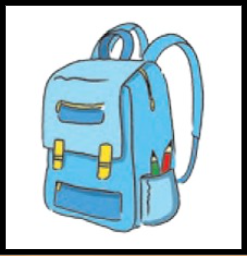
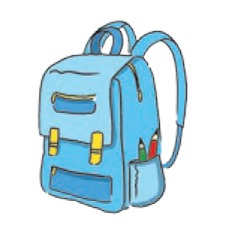
add image in the DragAndDrop

diff --git a/src/components/DragAndDrop/DragAndDropLevels.jsx b/src/components/DragAndDrop/DragAndDropLevels.jsx
@@ -4,20 +4,34 @@ import css from "../../main.module.css";
 import { DragAndDropGame } from "./DragAndDropGame";
 import backImg from "./img/tetrad.jpg";
 import image from "./img/bag.png";
+import teacherPng from "./img/teacher.png";
+import teacherGirl from "./img/teacherGirl.png";
+import learningBoy from "./img/learningBoy.png";
+import learningGirl from "./img/learningGirl.png";
+import dlugopis from "./img/dlugopis.png";
+import oluwek from "./img/oluwek.png";
+import zeszyt from "./img/zeszyt.png";
+import ksączka from "./img/ksączka.png";
+import komputer from "./img/komputer.png";
+import lekcia from "./img/lekcia.png";
+import chair from "./img/chair.png";
+import okno from "./img/okno.png";
+import drzwi from "./img/drzwi.png";
+import lawka from "./img/lawka.png";
 
 export const DragAndDropLevels = () => {
   const [selectedId, setSelectedId] = useState("");
-  const [currentId, setCurrentId] = useState("");
+  // const [currentId, setCurrentId] = useState("");
 
   useEffect(() => {
     localStorage.setItem("numberPage", "DragAndDropLevels");
   }, []);
 
-  const handleOnClick = (e) => {
-    const id = e.target.id;
-    console.log(id);
-    setSelectedId(id);
-  };
+  // const handleOnClick = (e) => {
+  //   const id = e.target.id;
+  //   console.log(id);
+  //   setSelectedId(id);
+  // };
   const forstText = {
     wordsOne: "k",
     wordsTwo: "a",
@@ -195,48 +209,121 @@ export const DragAndDropLevels = () => {
       );
     } else if (localStorage.getItem("currentValue") === "2") {
       return (
-        <DragAndDropGame textData={secondText} goodText={goodSecondText} />
+        <DragAndDropGame
+          textData={secondText}
+          goodText={goodSecondText}
+          image={teacherPng}
+        />
       );
     } else if (localStorage.getItem("currentValue") === "3") {
-      return <DragAndDropGame textData={threeText} goodText={goodThreeText} />;
+      return (
+        <DragAndDropGame
+          textData={threeText}
+          goodText={goodThreeText}
+          image={teacherGirl}
+        />
+      );
     } else if (localStorage.getItem("currentValue") === "4") {
-      return <DragAndDropGame textData={fourText} goodText={goodFourText} />;
+      return (
+        <DragAndDropGame
+          textData={fourText}
+          goodText={goodFourText}
+          image={learningBoy}
+        />
+      );
     } else if (localStorage.getItem("currentValue") === "5") {
-      return <DragAndDropGame textData={fiveText} goodText={goodFiveText} />;
+      return (
+        <DragAndDropGame
+          textData={fiveText}
+          goodText={goodFiveText}
+          image={learningGirl}
+        />
+      );
     } else if (localStorage.getItem("currentValue") === "6") {
-      return <DragAndDropGame textData={sixText} goodText={goodSixText} />;
+      return (
+        <DragAndDropGame
+          textData={sixText}
+          goodText={goodSixText}
+          image={dlugopis}
+        />
+      );
     } else if (localStorage.getItem("currentValue") === "7") {
-      return <DragAndDropGame textData={sevenText} goodText={goodSevenText} />;
+      return (
+        <DragAndDropGame
+          textData={sevenText}
+          goodText={goodSevenText}
+          image={oluwek}
+        />
+      );
     } else if (localStorage.getItem("currentValue") === "8") {
-      return <DragAndDropGame textData={eightText} goodText={goodEightText} />;
+      return (
+        <DragAndDropGame
+          textData={eightText}
+          goodText={goodEightText}
+          image={zeszyt}
+        />
+      );
     } else if (localStorage.getItem("currentValue") === "9") {
-      return <DragAndDropGame textData={nineText} goodText={goodNineText} />;
+      return (
+        <DragAndDropGame
+          textData={nineText}
+          goodText={goodNineText}
+          image={ksączka}
+        />
+      );
     } else if (localStorage.getItem("currentValue") === "10") {
-      return <DragAndDropGame textData={tenText} goodText={goodTenText} />;
+      return (
+        <DragAndDropGame
+          textData={tenText}
+          goodText={goodTenText}
+          image={komputer}
+        />
+      );
     } else if (localStorage.getItem("currentValue") === "11") {
       return (
-        <DragAndDropGame textData={elevenText} goodText={goodElevenText} />
+        <DragAndDropGame
+          textData={elevenText}
+          goodText={goodElevenText}
+          image={lekcia}
+        />
       );
     } else if (localStorage.getItem("currentValue") === "12") {
       return (
-        <DragAndDropGame textData={twelveText} goodText={goodTwelveText} />
+        <DragAndDropGame
+          textData={twelveText}
+          goodText={goodTwelveText}
+          image={chair}
+        />
       );
     } else if (localStorage.getItem("currentValue") === "13") {
       return (
-        <DragAndDropGame textData={thirteenText} goodText={goodThirteenText} />
+        <DragAndDropGame
+          textData={thirteenText}
+          goodText={goodThirteenText}
+          image={okno}
+        />
       );
     } else if (localStorage.getItem("currentValue") === "14") {
       return (
-        <DragAndDropGame textData={fourteenText} goodText={goodFourteenText} />
+        <DragAndDropGame
+          textData={fourteenText}
+          goodText={goodFourteenText}
+          image={drzwi}
+          imageWidthImage="118"
+        />
       );
     } else if (localStorage.getItem("currentValue") === "15") {
       return (
-        <DragAndDropGame textData={fifteenText} goodText={goodFifteenText} />
+        <DragAndDropGame
+          textData={fifteenText}
+          goodText={goodFifteenText}
+          image={lawka}
+        />
       );
     } else {
       return (
         <>
-          <div
+          {/* <div
             style={{
               position: "absolute",
               top: "50%",
@@ -261,8 +348,8 @@ export const DragAndDropLevels = () => {
               transform: "translate(-50%,-50%)",
               zIndex: "2",
             }}
-          >
-            {/* <div
+          > */}
+          {/* <div
               style={{
                 display: "flex",
                 flexWrap: "wrap",
@@ -381,7 +468,7 @@ export const DragAndDropLevels = () => {
                 Game number 15
               </button>
             </div> */}
-          </div>
+          {/* </div> */}
         </>
       );
     }

diff --git a/src/components/DragAndDrop/DragAndDropGame.jsx b/src/components/DragAndDrop/DragAndDropGame.jsx
@@ -3,7 +3,12 @@ import css from "../../main.module.css";
 import { DragAndDropLevels } from "./DragAndDropLevels";
 import { DragAndDrop } from "./DragAndDrop";
 
-export const DragAndDropGame = ({ textData, goodText, image }) => {
+export const DragAndDropGame = ({
+  textData,
+  goodText,
+  image,
+  imageWidthImage,
+}) => {
   const [selectedId, setSelectedId] = useState("");
   const [cardList, setCardList] = useState([
     { id: 1, order: 0, text: textData.wordsOne },
@@ -114,6 +119,8 @@ export const DragAndDropGame = ({ textData, goodText, image }) => {
       setCurrentValue(updatedValue);
     }
   };
+  const defaultWidth = "227px";
+  const imageWidth = imageWidthImage || defaultWidth;
 
   const renderContent = () => {
     if (selectedId === "back") {
@@ -168,16 +175,15 @@ export const DragAndDropGame = ({ textData, goodText, image }) => {
                 <img
                   src={image}
                   alt="lalala"
-                  style={
-                    {
-                      // paddingBottom: "40px",
-                      // position: "absolute",
-                      // top: "30%",
-                      // left: "40vw",
-                      // width: "150px",
-                      // height: "150px",
-                    }
-                  }
+                  style={{
+                    // paddingBottom: "40px",
+                    // position: "absolute",
+                    // top: "30%",
+                    // left: "40vw",
+                    width: imageWidth,
+                    height: "234px",
+                    border: "2px solid black",
+                  }}
                 />
               </div>
               <div
@@ -214,11 +220,19 @@ export const DragAndDropGame = ({ textData, goodText, image }) => {
                   </button>
                 </div>
                 <div className={css.currentPage}>
-                  <button onClick={() => jobChange("back")} id="back">
+                  <button
+                    onClick={() => jobChange("back")}
+                    id="back"
+                    style={{ width: "50px", height: "50px" }}
+                  >
                     back
                   </button>
                   <div>{localStorage.getItem("currentValue")} / 15</div>
-                  <button onClick={() => jobChange("front")} id="front">
+                  <button
+                    onClick={() => jobChange("front")}
+                    id="front"
+                    style={{ width: "50px", height: "50px" }}
+                  >
                     front
                   </button>
                 </div>

diff --git a/src/components/DragAndDrop/DragAndDrop.jsx b/src/components/DragAndDrop/DragAndDrop.jsx
@@ -2,6 +2,7 @@ import React, { useEffect, useState } from "react";
 import css from "../../main.module.css";
 import { PageOne } from "../Game-page/pageOne";
 import { DragAndDropLevels } from "./DragAndDropLevels";
+import Screenshot_plecak from "./img/Screenshot_plecak.png";
 
 export const DragAndDrop = () => {
   const [selectedId, setSelectedId] = useState("");
@@ -33,9 +34,13 @@ export const DragAndDrop = () => {
             id="1"
             onClick={(e) => setSelectedId(e.target.id)}
             className={css.levelSelectionBtn}
-          >
-            Low Lavel
-          </button>
+            style={{
+              backgroundImage: `url(${Screenshot_plecak})`,
+              backgroundSize: "cover",
+              width: "250px",
+              height: "250px",
+            }}
+          ></button>
           <button
             id="2"
             onClick={(e) => setSelectedId(e.target.id)}
